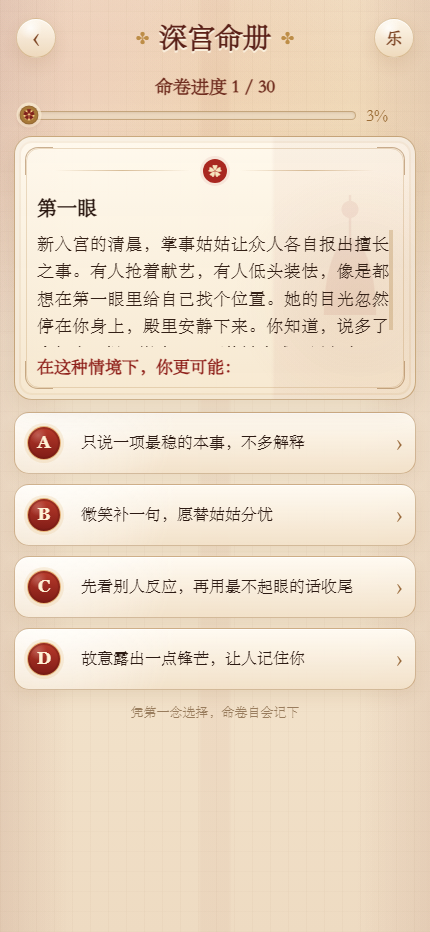
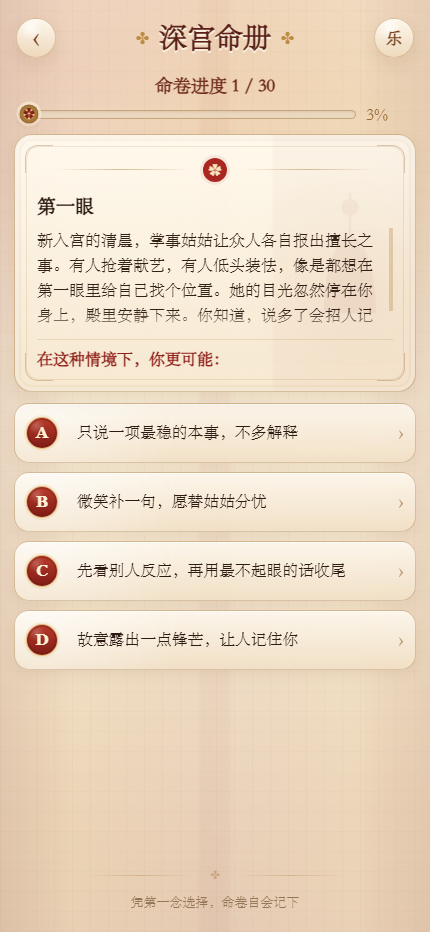
style: polish test page layout balance

diff --git a/app/test-page.css b/app/test-page.css
@@ -1440,3 +1440,217 @@
     font-size: 12px;
   }
 }
+
+/* Final layout balance pass: calmer card hierarchy, softer options, bottom closure. */
+.test-page {
+  background:
+    radial-gradient(ellipse at 50% 96%, rgba(143, 33, 27, 0.055), transparent 46%),
+    radial-gradient(ellipse at 16% 88%, rgba(215, 168, 90, 0.12), transparent 30%),
+    radial-gradient(ellipse at 88% 86%, rgba(215, 168, 90, 0.10), transparent 28%),
+    radial-gradient(circle at 18% 8%, rgba(185, 59, 43, 0.10), transparent 30%),
+    radial-gradient(circle at 88% 12%, rgba(215, 168, 90, 0.16), transparent 28%),
+    linear-gradient(90deg, rgba(143, 33, 27, 0.045), transparent 18%, transparent 82%, rgba(143, 33, 27, 0.04)),
+    linear-gradient(180deg, #fbf1df 0%, #f5e7d0 54%, #eedbc2 100%);
+}
+
+.test-page::after {
+  background:
+    linear-gradient(180deg, transparent 72%, rgba(143, 33, 27, 0.035)),
+    linear-gradient(90deg, transparent 0 46%, rgba(150, 49, 36, 0.035) 47% 53%, transparent 54%),
+    linear-gradient(180deg, rgba(143, 33, 27, 0.065), transparent 42%);
+}
+
+.test-shell {
+  gap: 11px;
+  padding-bottom: calc(20px + env(safe-area-inset-bottom));
+}
+
+.test-scene-card {
+  min-height: 222px;
+  height: clamp(222px, 29dvh, 258px);
+  padding: 23px 22px 20px;
+  border-color: rgba(163, 116, 58, 0.44);
+  background:
+    radial-gradient(circle at 86% 60%, rgba(183, 140, 83, 0.08), transparent 33%),
+    linear-gradient(90deg, transparent 0 64%, rgba(143, 33, 27, 0.032) 65% 100%),
+    linear-gradient(180deg, rgba(255, 250, 239, 0.96), rgba(246, 232, 208, 0.94));
+  box-shadow:
+    0 8px 18px rgba(118, 75, 34, 0.10),
+    inset 0 0 0 4px rgba(255, 255, 255, 0.24),
+    inset 0 0 0 6px rgba(183, 140, 83, 0.08);
+}
+
+.test-scene-card::before {
+  border-color: rgba(183, 140, 83, 0.20);
+}
+
+.test-scene-card::after {
+  opacity: 0.045;
+}
+
+.test-scene-card__corner {
+  border-color: rgba(145, 96, 44, 0.32);
+}
+
+.test-scene-card__content {
+  gap: 0;
+}
+
+.test-scene-card__body {
+  position: relative;
+  flex: 1 1 auto;
+  padding-right: 5px;
+  -webkit-mask-image: linear-gradient(180deg, #000 0%, #000 82%, rgba(0, 0, 0, 0.24) 100%);
+  mask-image: linear-gradient(180deg, #000 0%, #000 82%, rgba(0, 0, 0, 0.24) 100%);
+}
+
+.test-scene-card h2 {
+  flex: 0 0 auto;
+  margin-bottom: 9px;
+  font-size: 19px;
+  line-height: 1.32;
+}
+
+.test-scene-card p {
+  font-size: 16px;
+  line-height: 1.58;
+  text-align: left;
+}
+
+.test-scene-card strong {
+  flex: 0 0 auto;
+  margin-top: 9px;
+  padding-top: 8px;
+  border-top: 1px solid rgba(183, 140, 83, 0.22);
+  font-size: 16px;
+  line-height: 1.38;
+}
+
+.test-choice-list {
+  gap: 9px;
+}
+
+.test-choice-button {
+  min-height: 60px;
+  grid-template-columns: 42px 1fr 16px;
+  gap: 9px;
+  padding: 8px 12px 8px 11px;
+  border-color: rgba(163, 116, 58, 0.40);
+  background:
+    radial-gradient(circle at 8% 0%, rgba(255, 255, 255, 0.48), transparent 36%),
+    linear-gradient(180deg, rgba(252, 246, 235, 0.96), rgba(241, 224, 198, 0.91));
+  box-shadow:
+    0 6px 14px rgba(118, 75, 34, 0.075),
+    inset 0 1px rgba(255, 255, 255, 0.70);
+}
+
+.test-choice-button__seal {
+  width: 32px;
+  height: 32px;
+  font-size: 16px;
+  box-shadow:
+    inset 0 0 0 2px rgba(109, 25, 18, 0.38),
+    0 0 0 2px rgba(215, 168, 90, 0.15);
+}
+
+.test-choice-button__text {
+  font-size: 15.8px;
+  line-height: 1.40;
+}
+
+.test-choice-button__arrow {
+  color: rgba(148, 100, 52, 0.68);
+  font-size: 22px;
+}
+
+.test-bottom-hint {
+  display: grid;
+  gap: 8px;
+  margin: auto 0 0;
+  padding-top: 18px;
+  font-size: 13px;
+}
+
+.test-bottom-hint::before {
+  content: "✤";
+  display: block;
+  width: min(72%, 260px);
+  margin: 0 auto;
+  color: rgba(169, 116, 56, 0.42);
+  font-size: 12px;
+  background:
+    linear-gradient(90deg, transparent, rgba(169, 116, 56, 0.30), transparent) left 50% / 42% 1px no-repeat,
+    linear-gradient(90deg, transparent, rgba(169, 116, 56, 0.30), transparent) right 50% / 42% 1px no-repeat;
+}
+
+@media (max-width: 380px) {
+  .test-shell {
+    gap: 8px;
+  }
+
+  .test-scene-card {
+    min-height: 190px;
+    height: clamp(190px, 29dvh, 206px);
+    padding: 17px 18px 15px;
+  }
+
+  .test-scene-card h2 {
+    margin-bottom: 7px;
+    font-size: 17px;
+  }
+
+  .test-scene-card p {
+    font-size: 14px;
+    line-height: 1.46;
+  }
+
+  .test-scene-card strong {
+    margin-top: 7px;
+    padding-top: 7px;
+    font-size: 14px;
+  }
+
+  .test-choice-button {
+    min-height: 56px;
+    grid-template-columns: 38px 1fr 16px;
+  }
+
+  .test-choice-button__seal {
+    width: 29px;
+    height: 29px;
+    font-size: 15px;
+  }
+
+  .test-choice-button__text {
+    font-size: 14.6px;
+    line-height: 1.32;
+  }
+}
+
+@media (max-height: 700px) {
+  .test-shell {
+    gap: 7px;
+    padding-bottom: calc(12px + env(safe-area-inset-bottom));
+  }
+
+  .test-scene-card {
+    min-height: 176px;
+    height: clamp(176px, 27dvh, 190px);
+    padding: 16px 17px 14px;
+  }
+
+  .test-scene-card p {
+    font-size: 13.6px;
+    line-height: 1.42;
+  }
+
+  .test-choice-button {
+    min-height: 54px;
+  }
+
+  .test-bottom-hint {
+    display: grid;
+    padding-top: 10px;
+    font-size: 12px;
+  }
+}

diff --git a/docs/TEST_PAGE_HYBRID_REFINEMENT.md b/docs/TEST_PAGE_HYBRID_REFINEMENT.md
@@ -23,6 +23,18 @@ This round returns to the original test page behavior and structure:
 - Rethemed choice buttons as warm paper buttons with small vermilion ABCD badges.
 - Kept the bottom hint as a weak reading cue: `凭第一念选择，命卷自会记下`.
 
+## Final Layout Balance Pass
+
+This final pass only adjusts spacing, hierarchy, and surface quality. It does not change the test flow, question data, scoring, storage, or result routing.
+
+- Centered the scene-card rhythm around title, readable body text, and the red decision prompt.
+- Softened the paper card border, corner lines, lamp shadow, and drop shadow so the card feels less heavy.
+- Reduced the visual weight of the ABCD seals and right arrows while keeping tap targets clear.
+- Tuned option spacing and paper-button texture so the answer list feels refined without becoming cramped.
+- Moved the bottom hint into a quieter lower-page closing position and added a subtle gold divider motif.
+- Added responsive spacing for compact heights so 375x667 keeps the scene card and all four options readable.
+- Added low-opacity bottom palace/paper atmosphere for 390x844 and 430x932 so the lower half no longer feels empty.
+
 ## Product Logic
 
 - ABCD preserved: yes.
@@ -43,7 +55,7 @@ This round returns to the original test page behavior and structure:
 
 ## Mobile Checks
 
-Preview URL used: `http://localhost:3014/test`
+Preview URL used: `http://localhost:3015/test`
 
 ### 375x667
 
@@ -52,7 +64,8 @@ Preview URL used: `http://localhost:3014/test`
 - Progress visible: pass.
 - Scene card readable: pass.
 - Four ABCD options visible: pass.
-- Bottom hint hidden on this compact height to preserve answer space.
+- Bottom hint visible at the lower edge without covering the fourth option.
+- Red decision prompt remains visible and is not compressed against the card bottom.
 - Screenshot: `docs/screenshots/test-page-hybrid-375x667.png`
 
 ### 390x844
@@ -63,6 +76,7 @@ Preview URL used: `http://localhost:3014/test`
 - Scene card readable: pass.
 - Four ABCD options visible: pass.
 - Bottom hint visible: pass.
+- Lower-page whitespace is closed with subtle decoration instead of a new action bar.
 - Screenshot: `docs/screenshots/test-page-hybrid-390x844.png`
 
 ### 430x932
@@ -73,6 +87,7 @@ Preview URL used: `http://localhost:3014/test`
 - Scene card readable: pass.
 - Four ABCD options visible: pass.
 - Bottom hint visible with natural breathing room: pass.
+- Bottom atmosphere prevents the page from feeling unfinished on taller screens.
 - Screenshot: `docs/screenshots/test-page-hybrid-430x932.png`
 
 ## Interaction Verification